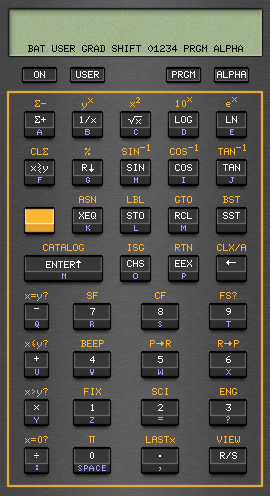
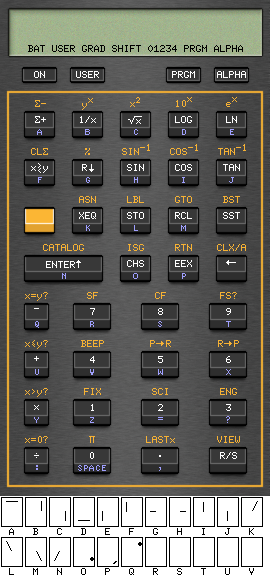
Support display segments extracted from image with transparency.

diff --git a/src/display.c b/src/display.c
@@ -39,6 +39,8 @@ MA 02111, USA.
 
 static kml_t *dkml;  // display keeps a pointer to the KML file.  Ugly!
 
+GdkPixbuf *d_file_pixbuf;  // display keeps a pointer to the file pixbuf. Ugly!
+
 static GtkWidget *display;
 
 static GdkGC *annunciator_gc [KML_MAX_ANNUNCIATOR];
@@ -87,6 +89,20 @@ static void draw_digit (GtkWidget *widget,
 				y + dkml->segment [i]->offset.y,
 				dkml->segment [i]->size.width,
 				dkml->segment [i]->size.height);
+	    break;
+	  case kml_segment_type_image:
+	    gdk_draw_pixbuf (widget->window,                 // drawable
+			     display->style->fg_gc [GTK_WIDGET_STATE (widget)],
+                             d_file_pixbuf,                  // pixbuf
+			     dkml->segment [i]->offset.x,    // src_x
+			     dkml->segment [i]->offset.y,    // src_y
+			     x,                              // dest_x
+			     y,                              // dest_y
+			     dkml->segment [i]->size.width,  // width
+			     dkml->segment [i]->size.height, // height
+			     GDK_RGB_DITHER_NORMAL,          // dither
+			     0,                              // x_dither
+			     0);                             // y_dither
 	    break;
 	  }
       }
@@ -310,6 +326,7 @@ void display_init (kml_t *kml,
   GdkColor display_fg_color, display_bg_color;
 
   dkml = kml;
+  d_file_pixbuf = file_pixbuf;
 
   display = gtk_drawing_area_new ();
 

diff --git a/src/kml.h b/src/kml.h
@@ -154,7 +154,8 @@ typedef struct kml_scancode_t
 typedef enum
   {
     kml_segment_type_line,
-    kml_segment_type_rect
+    kml_segment_type_rect,
+    kml_segment_type_image,
   } kml_segment_type_t;
 
 typedef struct
